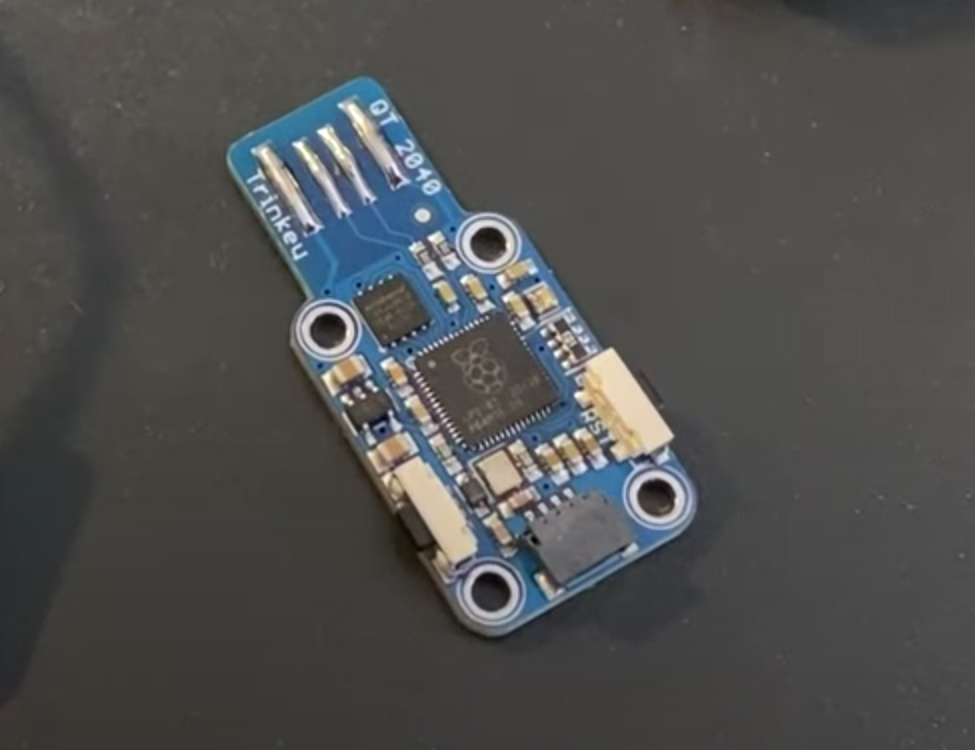
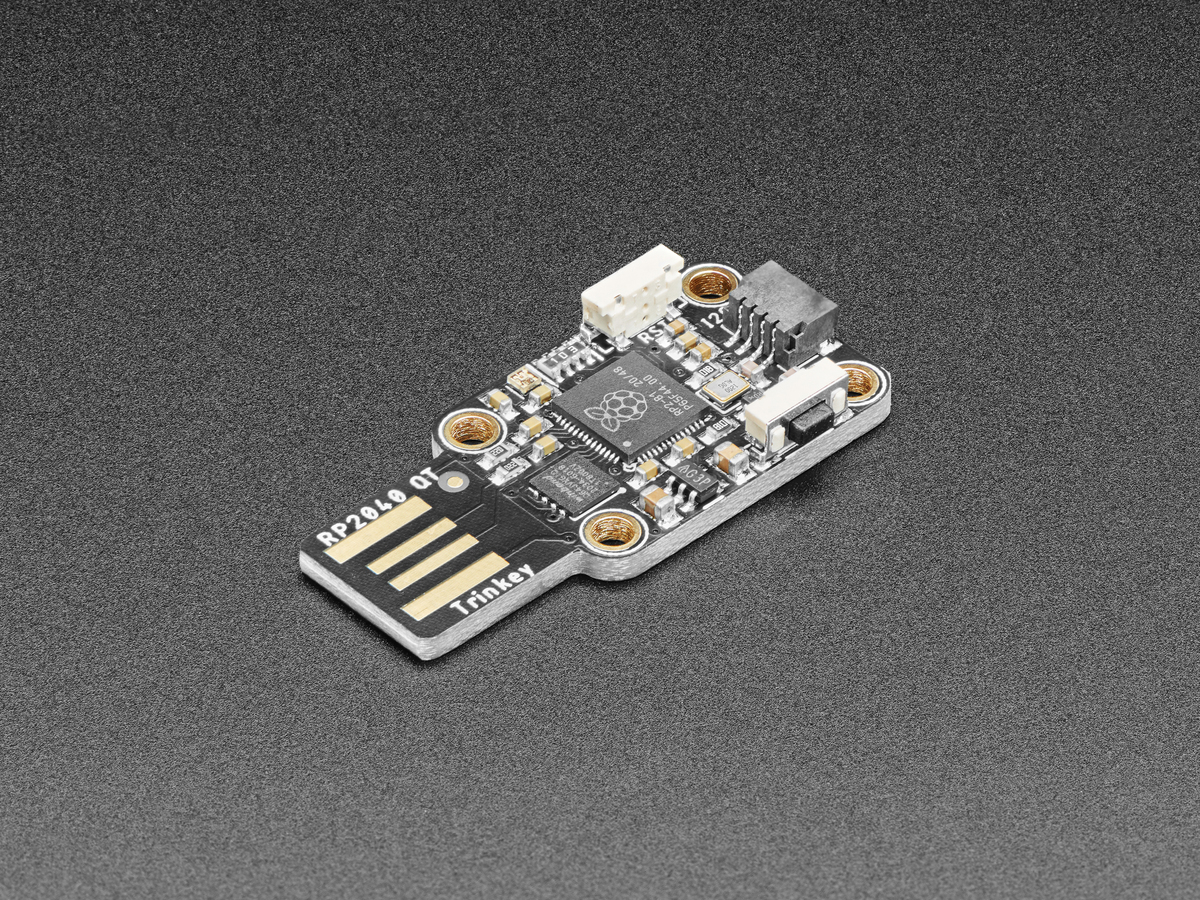
Update QT2040 board

diff --git a/_board/adafruit_qt2040_trinkey.md b/_board/adafruit_qt2040_trinkey.md
@@ -1,21 +1,27 @@
 ---
 layout: download
 board_id: "adafruit_qt2040_trinkey"
-title: "QT2040 Trinkey Download"
-name: "QT2040 Trinkey"
+title: "Trinkey QT2040 Download"
+name: "Trinkey QT2040"
 manufacturer: "Adafruit"
-board_url: ""
+board_url: "https://www.adafruit.com/product/5056"
 board_image: "adafruit_qt2040_trinkey.jpg"
 date_added: 2021-5-26
 features:
 
 ---
 
-Coming Soon!
+It's half USB Key, half Adafruit QT Py, and a lotta RP2040*...*it's **Trinkey QT2040**, the circuit board with an RP2040 heart and Stemma QT legs. Folks are loving the [QT Py 2040](https://www.adafruit.com/product/4900) we made, but maybe you want something plug-and-play. So we thought, hey what if we made something like that plugs right into your computer's USB port? And this is what we came up with!
 
-## Learn More
+The PCB is designed to slip into any USB A port on a computer or laptop. There's an RP2040 microcontroller on board with just enough circuitry to keep it happy. There's an RGB NeoPixel, a reset and bootloader or user button and a STEMMA QT Port on the end. That's it!
 
-* [YouTube](https://youtu.be/PIhUpL8eyQI)
+With the body of the board being 1.0" x 0.7" and four mounting holes, you can attach just about any of our QT boards right on (some are a little larger so just check that has the holes in the same locations). [Use M2.5 sized standoffs and screws](https://www.adafruit.com/product/3658) to do so, you could use 2 diagonal at a minimum. Then use a [shorty QT cable](https://www.adafruit.com/product/4399) and you've got a custom sensor Trinkey for any sensor purpose.
+
+The board comes with 8 MB of QSPI flash memory so you can put *all* of our CircuitPython drivers on the disk!
+
+## Purchase
+
+* [Adafruit](https://www.adafruit.com/product/5056)
 
 ## Contribute
 
